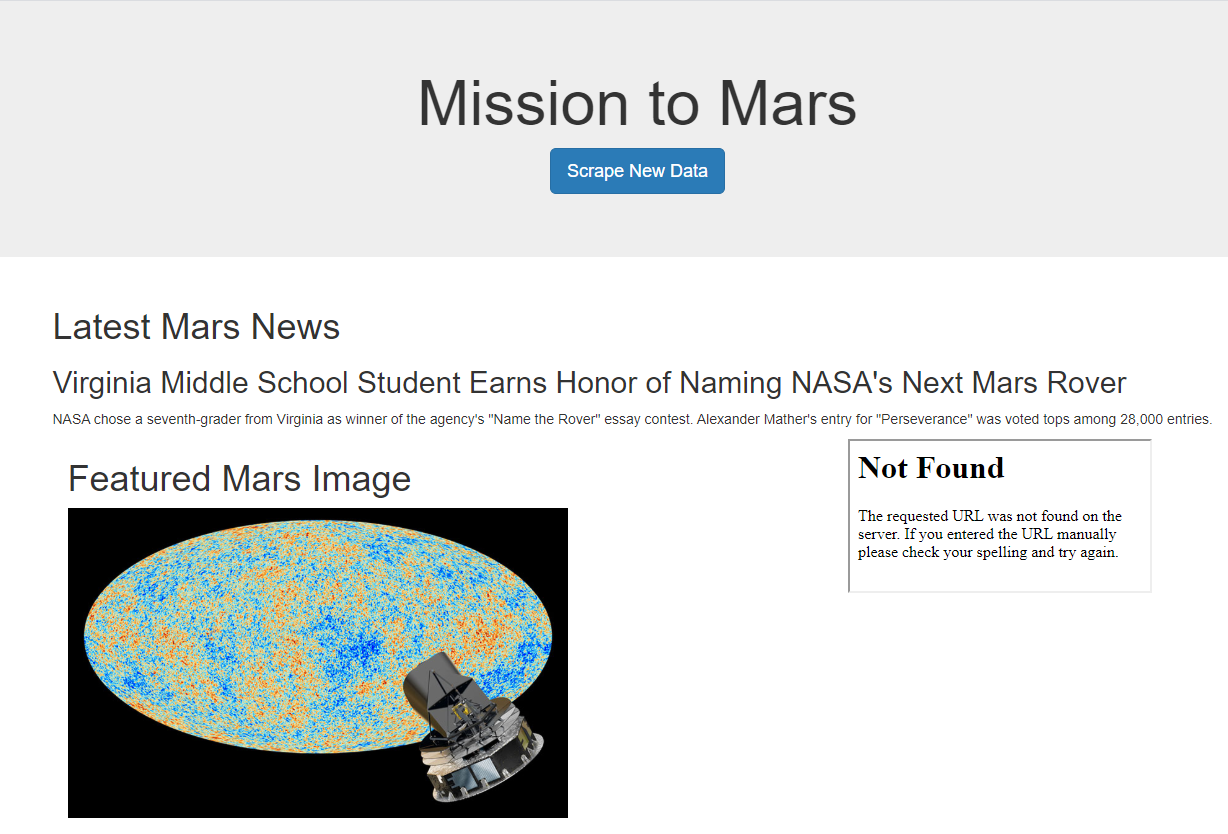
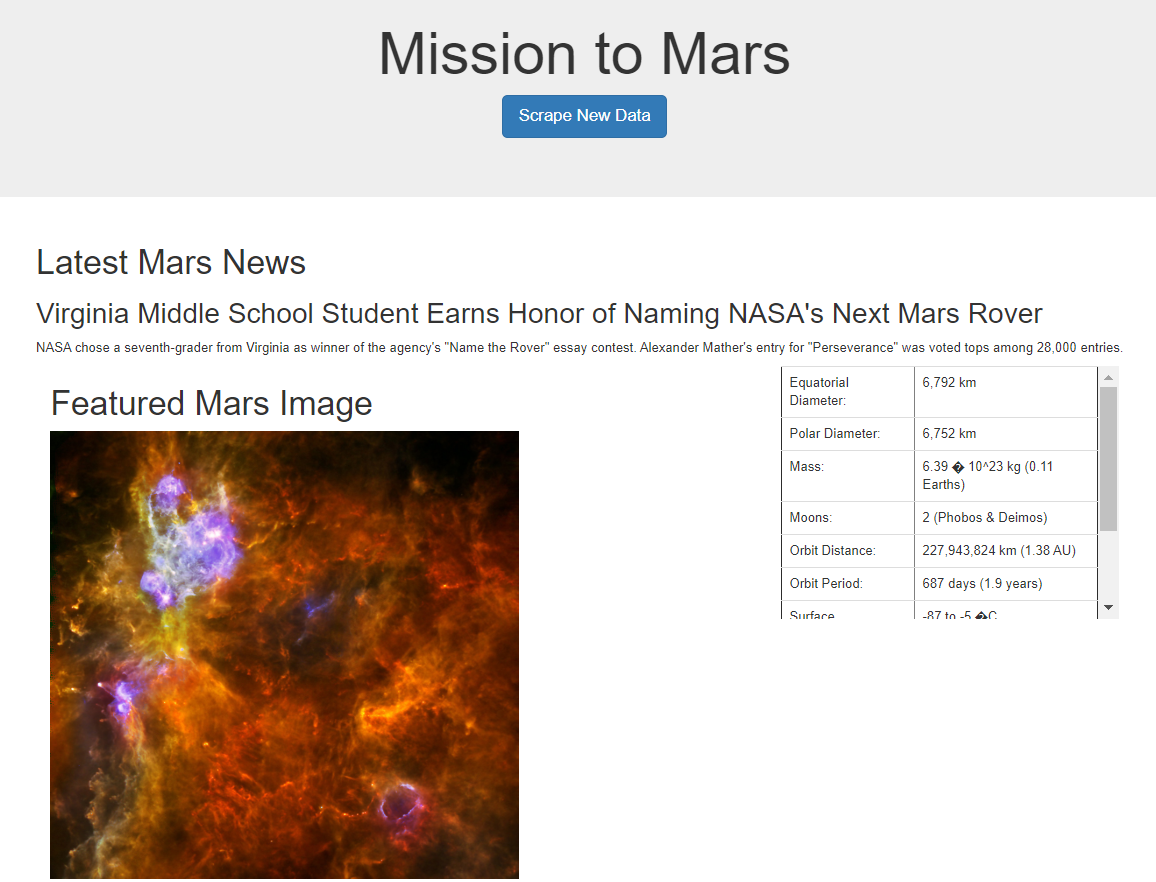
added table

Changed region(s): [[0.0311, 0.3429, 0.9965, 0.9976], [0.3114, 0.0312, 0.7163, 0.2494], [0.0311, 0.2806, 0.2803, 0.3118]]

diff --git a/templates/index.html b/templates/index.html
@@ -45,7 +45,9 @@
           <!--Weather card-->
         
           <!--Table-->
-          <iframe src={{data.facts_str}}></iframe>
+          <div class="embed-responsive embed-responsive-4by3">
+            <iframe class="embed-responsive-item" src={{data.facts_str}}></iframe>
+          </div>
           
         </div>
     </div>

diff --git a/scrape_mars.py b/scrape_mars.py
@@ -98,11 +98,15 @@ def scrape():
 
     # Load Mars Facts table
     facts_table = pd.read_html("https://space-facts.com/mars/")[0]
-    facts_str = facts_table.to_html()
+    facts_str = facts_table.to_html(index=False, header=False)
 
     table_file = "/table.html"
 
     text_file = open("templates" + table_file, "w")
+
+    html_head = '<!DOCTYPE html><html lang="en"><head><meta charset="UTF-8"><meta name="viewport" content="width=device-width, initial-scale=1.0"><meta http-equiv="X-UA-Compatible" content="ie=edge"><title>Mars Table</title><link rel="stylesheet" href="https://maxcdn.bootstrapcdn.com/bootstrap/3.3.7/css/bootstrap.min.css"></head>'
+
+    facts_str = html_head + facts_str
     text_file.write(facts_str)
     text_file.close()
 

diff --git a/app.py b/app.py
@@ -28,5 +28,9 @@ def scraper():
     mars_data.update({}, update_data, upsert=True)
     return (redirect("/", code=302))
 
+@app.route('/table.html')
+def table():
+    return render_template('table.html')
+
 if __name__ == "__main__":
     app.run(debug=True)
